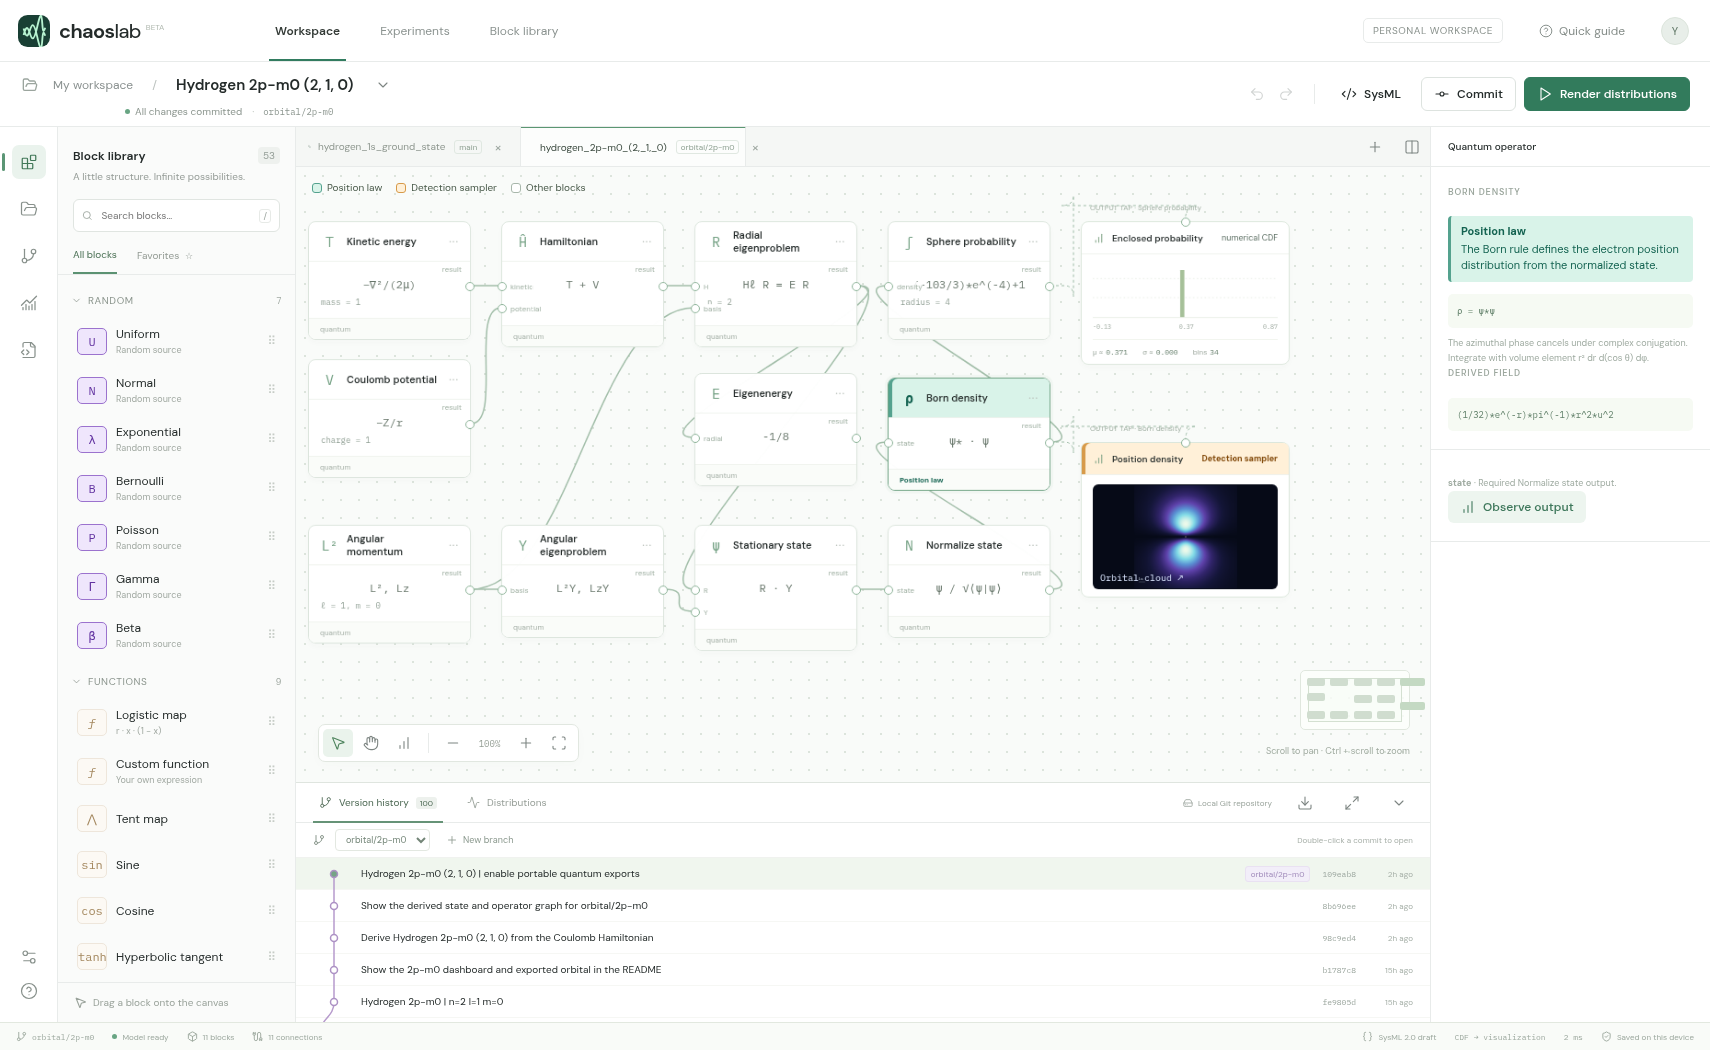
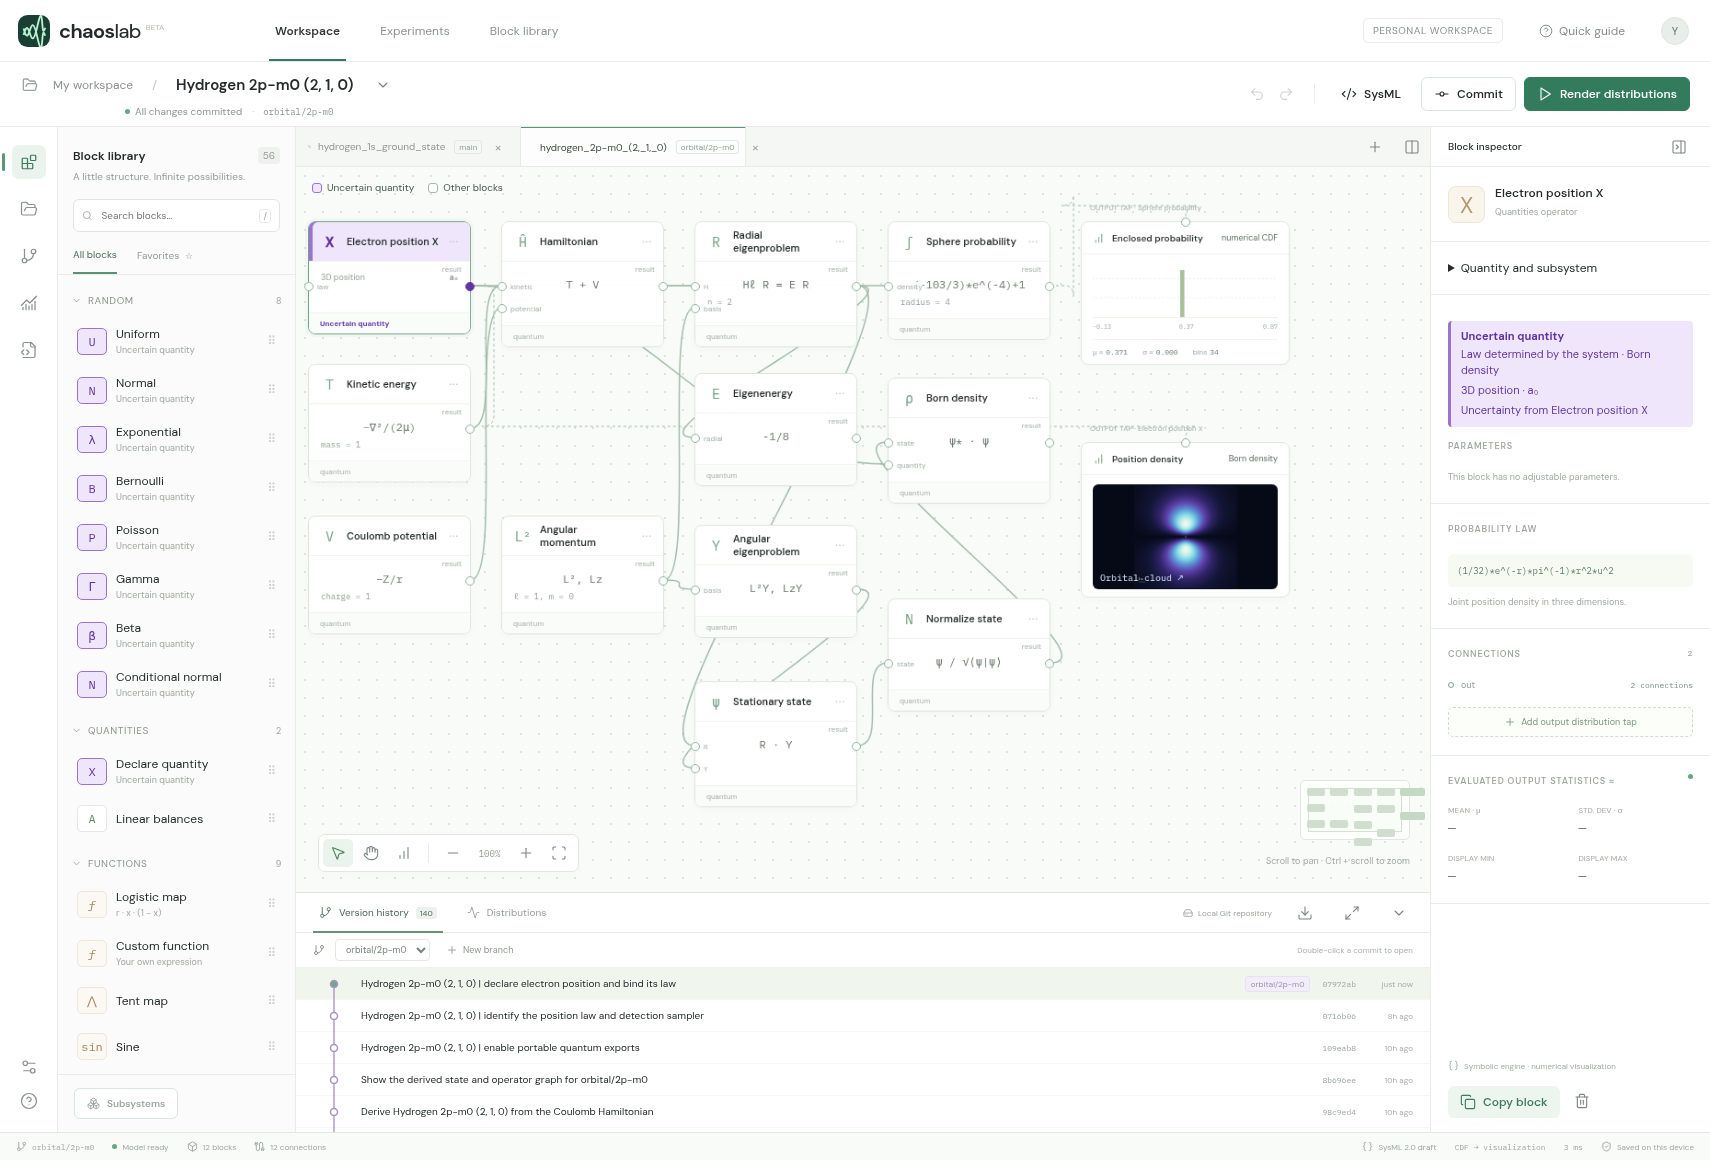
Show the position declaration and its law provider for orbital/2p-m0

diff --git a/studio.py b/studio.py
@@ -10,7 +10,7 @@ import tempfile
 import webbrowser
 
 ROOT = Path(__file__).resolve().parent
-STUDIO_REV = "5cbb600c6ee5baa24d159ddc6c974d68eb68f653"
+STUDIO_REV = "515ba96842af71b90f41019a508548a96e802665"
 STUDIO_REPO = "https://github.com/wa200508/chaos_lab.git"
 
 

diff --git a/README.md b/README.md
@@ -6,7 +6,7 @@ Open **Version history** in Chaos Lab to explore the 20 hydrogen designs in this
 
 The connected Hamiltonian and eigenstate solvers give $E=-1/8$ Hartree for this state.
 
-The purple **Electron position X** block declares the three-dimensional quantity in Bohr radii. Open its inspector to see **Born density** as its law provider. The sphere measurement and spatial tap both observe X. Projected detections draw from the final law; the central slice evaluates the density directly.
+The purple **Electron position X** block declares the three-dimensional quantity in Bohr radii. Open its inspector to see **Born density** as its law provider. The sphere measurement and spatial tap both observe X. Projected detections draw from the final law. The central slice evaluates the density directly.
 
 ![Chaos Lab dashboard with the 2p model, m = 0, open in version history](dashboard.png)
 
